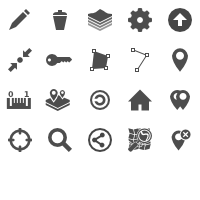
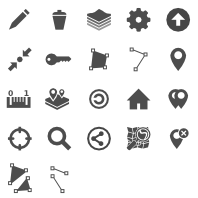
Add "add shape" control for multis (cf #94)

diff --git a/src/js/leaflet.storage.controls.js b/src/js/leaflet.storage.controls.js
@@ -127,9 +127,69 @@ L.Storage.DrawPolygonAction = L.Storage.BaseAction.extend({
 
 });
 
+L.Storage.AddPolylineShapeAction = L.Storage.BaseAction.extend({
+
+    options: {
+        toolbarIcon: {
+            className: 'storage-draw-polyline-multi',
+            tooltip: L._('Add a line to the current multi')
+        }
+    },
+
+    addHooks: function () {
+        this.map.editedFeature.editor.newShape();
+    }
+
+});
+
+L.Storage.AddPolygonShapeAction = L.S.AddPolylineShapeAction.extend({
+
+    options: {
+        toolbarIcon: {
+            className: 'storage-draw-polygon-multi',
+            tooltip: L._('Add a polygon to the current multi')
+        }
+    }
+
+});
+
 // Leaflet.Toolbar doesn't allow twice same toolbar class…
 L.Storage.SettingsToolbar = L.Toolbar.Control.extend({});
-L.Storage.DrawToolbar = L.Toolbar.Control.extend({});
+L.Storage.DrawToolbar = L.Toolbar.Control.extend({
+
+    initialize: function (options) {
+        L.Toolbar.Control.prototype.initialize.call(this, options);
+        this.map = this.options.map;
+        this.map.on('seteditedfeature', this.redraw, this);
+    },
+
+    appendToContainer: function (container) {
+        this.options.actions = [];
+        if (this.map.options.enableMarkerDraw) {
+            this.options.actions.push(L.S.DrawMarkerAction);
+        }
+        if (this.map.options.enablePolylineDraw) {
+            this.options.actions.push(L.S.DrawPolylineAction);
+            if (this.map.editedFeature && this.map.editedFeature instanceof L.S.Polyline) {
+                this.options.actions.push(L.S.AddPolylineShapeAction);
+            }
+        }
+        if (this.map.options.enablePolygonDraw) {
+            this.options.actions.push(L.S.DrawPolygonAction);
+            if (this.map.editedFeature && this.map.editedFeature instanceof L.S.Polygon) {
+                this.options.actions.push(L.S.AddPolygonShapeAction);
+            }
+        }
+        L.Toolbar.Control.prototype.appendToContainer.call(this, container);
+    },
+
+    redraw: function () {
+        var container = this._control.getContainer();
+        container.innerHTML = '';
+        this.appendToContainer(container);
+    }
+
+});
 
 
 L.Storage.EditControl = L.Control.extend({

diff --git a/src/js/leaflet.storage.js b/src/js/leaflet.storage.js
@@ -84,7 +84,8 @@ L.Storage.Map.include({
             this.options.allowEdit = false;
         }
 
-        var editedFeature = null;
+        var editedFeature = null,
+            self = this;
         try {
             Object.defineProperty(this, 'editedFeature', {
                 get: function () {
@@ -95,6 +96,7 @@ L.Storage.Map.include({
                         editedFeature.endEdit();
                     }
                     editedFeature = feature;
+                    self.fire('seteditedfeature');
                 }
             });
         }
@@ -141,8 +143,7 @@ L.Storage.Map.include({
             this.invalidateSize({pan: false});
         }, this);
 
-        var isDirty = false, // global status
-            self = this;
+        var isDirty = false; // global status
         try {
             Object.defineProperty(this, 'isDirty', {
                 get: function () {
@@ -273,17 +274,7 @@ L.Storage.Map.include({
             this._controls.toggleEdit = new L.Storage.EditControl(this);
             this.addControl(this._controls.toggleEdit);
 
-            var drawActions = [];
-            if (this.options.enableMarkerDraw) {
-                drawActions.push(L.S.DrawMarkerAction);
-            }
-            if (this.options.enablePolylineDraw) {
-                drawActions.push(L.S.DrawPolylineAction);
-            }
-            if (this.options.enablePolygonDraw) {
-                drawActions.push(L.S.DrawPolygonAction);
-            }
-            new L.S.DrawToolbar({actions: drawActions}).addTo(this);
+            new L.S.DrawToolbar({map: this}).addTo(this);
 
             var editActions = [
                 L.S.ImportAction,

diff --git a/src/js/leaflet.storage.features.js b/src/js/leaflet.storage.features.js
@@ -307,13 +307,18 @@ L.Storage.FeatureMixin = {
     },
 
     getEditContextMenuItems: function () {
-        return ['-',
-            {
-                text: L._('Edit this feature'),
-                callback: this.edit,
-                context: this,
-                iconCls: 'storage-edit'
-            },
+        var items = ['-'];
+        if (this.map.editedFeature !== this) {
+            items.push(
+                {
+                    text: L._('Edit this feature'),
+                    callback: this.edit,
+                    context: this,
+                    iconCls: 'storage-edit'
+                }
+            );
+        }
+        items = items.concat(
             {
                 text: L._('Edit feature\'s layer'),
                 callback: this.datalayer.edit,
@@ -326,7 +331,8 @@ L.Storage.FeatureMixin = {
                 context: this,
                 iconCls: 'storage-delete'
             }
-        ];
+        );
+        return items;
     },
 
     showTooltip: function (content) {
@@ -929,7 +935,8 @@ L.Storage.Polygon = L.Polygon.extend({
     },
 
     defaultShape: function () {
-        return this._flat(this._latlngs[0]) ? this._latlngs[0] : this._latlngs[0][0];
+        // Change me when Leaflet#3279 is merged.
+        return this._flat(this._latlngs) ? this._latlngs : this._flat(this._latlngs[0]) ? this._latlngs[0] : this._latlngs[0][0];
     },
 
     isMulti: function () {

diff --git a/test/Polygon.js b/test/Polygon.js
@@ -91,4 +91,32 @@ describe('L.Storage.Polygon', function () {
 
     });
 
+    describe('#addShape', function () {
+
+        it('"add shape" control should not be visible by default', function () {
+            assert.notOk(qs('.storage-draw-polygon-multi'));
+        });
+
+        it('"add shape" control should be visible when editing a Polygon', function () {
+            var layer = new L.S.Polygon(this.map, [p2ll(100, 100), p2ll(100, 200)], {datalayer: this.datalayer}).addTo(this.datalayer);
+            layer.edit();
+            assert.ok(qs('.storage-draw-polygon-multi'));
+        });
+
+        it('"add shape" control should extend the same multi', function () {
+            var layer = new L.S.Polygon(this.map, [p2ll(100, 150), p2ll(150, 200), p2ll(200, 100)], {datalayer: this.datalayer}).addTo(this.datalayer);
+            layer.edit();
+            assert.notOk(layer.isMulti());
+            happen.click(qs('.storage-draw-polygon-multi'));
+            happen.at('mousemove', 300, 300);
+            happen.at('click', 300, 300);
+            happen.at('mousemove', 350, 300);
+            happen.at('click', 350, 300);
+            happen.at('click', 350, 300);
+            assert.ok(layer.isMulti());
+            assert.equal(this.datalayer._index.length, 1);
+        });
+
+    });
+
 });

diff --git a/test/Polyline.js b/test/Polyline.js
@@ -74,4 +74,32 @@ describe('L.Storage.Polyline', function () {
 
     });
 
+    describe('#addShape', function () {
+
+        it('"add shape" control should not be visible by default', function () {
+            assert.notOk(qs('.storage-draw-polyline-multi'));
+        });
+
+        it('"add shape" control should be visible when editing a Polyline', function () {
+            var layer = new L.S.Polyline(this.map, [p2ll(100, 100), p2ll(100, 200)], {datalayer: this.datalayer}).addTo(this.datalayer);
+            layer.edit();
+            assert.ok(qs('.storage-draw-polyline-multi'));
+        });
+
+        it('"add shape" control should extend the same multi', function () {
+            var layer = new L.S.Polyline(this.map, [p2ll(100, 100), p2ll(100, 200)], {datalayer: this.datalayer}).addTo(this.datalayer);
+            layer.edit();
+            assert.notOk(layer.isMulti());
+            happen.click(qs('.storage-draw-polyline-multi'));
+            happen.at('mousemove', 300, 300);
+            happen.at('click', 300, 300);
+            happen.at('mousemove', 350, 300);
+            happen.at('click', 350, 300);
+            happen.at('click', 350, 300);
+            assert.ok(layer.isMulti());
+            assert.equal(this.datalayer._index.length, 1);
+        });
+
+    });
+
 });

diff --git a/src/css/storage.css b/src/css/storage.css
@@ -164,9 +164,17 @@ a.storage-control-text {
 .storage-toolbar .storage-draw-polyline {
     background-position: -120px -40px;
 }
+.storage-draw-polyline-multi,
+.storage-toolbar .storage-draw-polyline-multi {
+    background-position: -42px -162px;
+}
 .storage-draw-polygon,
 .storage-toolbar .storage-draw-polygon {
     background-position: -80px -40px;
+}
+.storage-draw-polygon-multi,
+.storage-toolbar .storage-draw-polygon-multi {
+    background-position: -2px -162px;
 }
 .storage-edit-enabled .leaflet-control-toolbar > li > .leaflet-toolbar-icon,
 .storage-edit-enabled .storage-toolbar a {

diff --git a/test/_pre.js b/test/_pre.js
@@ -2,7 +2,6 @@ var qs = function (selector) {return document.querySelector(selector);};
 var qsa = function (selector) {return document.querySelectorAll(selector);};
 var qst = function (text, parent) {
     // find element by its text content
-    console.log(text)
     var r = document.evaluate("descendant::*[contains(text(),'" + text + "')]", parent || qs('#map'), null, XPathResult.UNORDERED_NODE_ITERATOR_TYPE, null), count = 0;
     while(r.iterateNext()) console.log(++count);
     return count;
